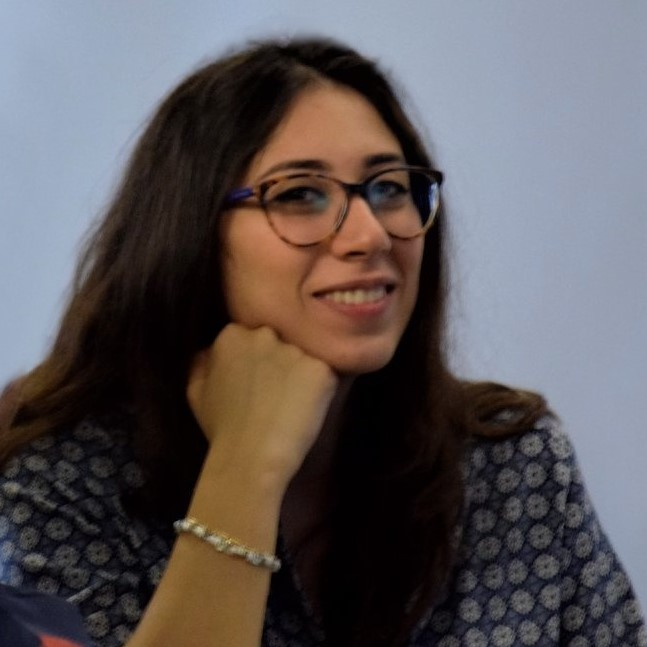
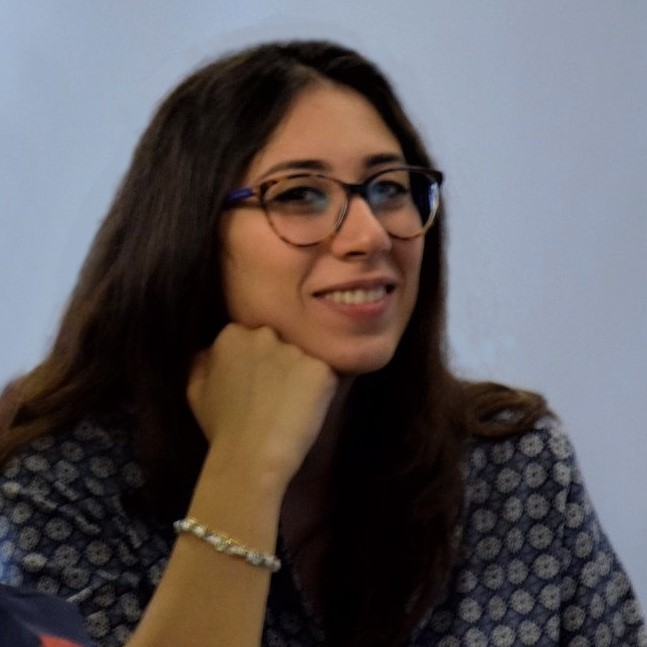
rewrote structure of members, as the lab growths not all members are phds, now postdocs, alumni and vistors have also their folders

diff --git a/_includes/members.html b/_includes/members.html
@@ -40,7 +40,7 @@
                 </div>
             </div>
             <div class="row">
-                <div class="col-md-4 col-sm-4 members-item">
+                <!-- <div class="col-md-4 col-sm-4 members-item">
                   <a href="https://wenxuanmou.github.io/personalPage/" class="members-link" data-toggle="modal">
                       <div class="members-hover">
                           <div class="members-hover-content">
@@ -53,37 +53,28 @@
                       <h4>Wenxuan Mou</h4>
                       <p class="text-muted"> US <a href="#projects">THRIVE++</a> project</a></p>
                   </div>
-                </div>
+                </div> -->
+
+            {% for member in include.postdocs %}
+            {% assign var = forloop.index0 | modulo:2 %}
                 <div class="col-md-4 col-sm-4 members-item">
-                    <a class="members-link" data-toggle="modal">
+                <!-- <div class="col-md-4 col-sm-6 members-item"> -->
+                    <a {% if member.website %}href={{member.website}}{% endif %} class="members-link" data-toggle="modal">
                         <div class="members-hover">
                             <div class="members-hover-content">
                                 <i class="fa fa-plus fa-3x"></i>
                             </div>
                         </div>
-                        <img src="img/members/GiLimPhoto.jpg" class="img-responsive" alt="">
+                        <img src="img/members/{% if member.picture %}{{member.picture}}{% else %}profile.png{% endif %}" class="img-responsive" alt="">
                     </a>
                     <div class="members-caption">
-                        <h4>Gi Hyun Lim</h4>
-                        <p class="text-muted">H2020 <a href="#projects">STRoNA</a> Fellowship</a></p>
+                        <h4>{{member.name}}</h4>
+                        {% if member.free-text %}<p class="text-muted">{{member.free-text}}</p>{% else %}<p><br><br></p>{% endif %}
                     </div>
                 </div>
-                <div class="col-md-4 col-sm-4 members-item">
-                  <a href="https://dhgarcia.github.io" class="members-link" data-toggle="modal">
-                      <div class="members-hover">
-                          <div class="members-hover-content">
-                              <i class="fa fa-plus fa-3x"></i>
-                          </div>
-                      </div>
-                      <img src="img/members/DanielHernandezGarciaPhoto.png" class="img-responsive" alt="">
-                  </a>
-                  <div class="members-caption">
-                      <h4>Daniel Hernández García</h4>
-                      <p class="text-muted">H2020 <a href="#projects">MoveCare</a> Project</a></p>
-                  </div>
-                </div>
-             </div>
+            {% endfor %}
 
+            </div>
 
 
 
@@ -97,7 +88,7 @@
 
             <div class="row">
 
-            {% for member in include.collection %}
+            {% for member in include.phds %}
             {% assign var = forloop.index0 | modulo:2 %}
                 <div class="col-md-4 col-sm-6 members-item">
                     <a {% if member.website %}href={{member.website}}{% endif %} class="members-link" data-toggle="modal">
@@ -119,16 +110,15 @@
 
 
 
-
             <div class="row">
                 <div class="col-lg-12 text-center">
-                    <h2 class="section-subheading text-muted">Visiting Scholars</h2>
+                    <h2 class="section-subheading text-muted">Visisting Scholars</h2>
                 </div>
             </div>
 
              <div class="row">
 
-                <div class="col-md-3 col-sm-3 members-item"></div>
+                <!-- <div class="col-md-3 col-sm-3 members-item"></div>
                 <div class="col-md-3 col-sm-3 members-item">
                     <a class="members-link" data-toggle="modal">
                         <div class="members-hover">
@@ -140,7 +130,7 @@
                     </a>
                     <div class="members-caption">
                         <h4>Debora Zanatto</h4>
-                        <p class="text-muted">Plymouth University</p>
+                        <p class="text-muted">University of Bristol</p>
                     </div>
                 </div>
 
@@ -158,10 +148,73 @@
                         <p class="text-muted">Universidad Carlos III de Madrid</p>
                     </div>
                 </div>
-<div class="col-md-3 col-sm-3 members-item"></div>
+
+
+                <div class="col-md-3 col-sm-3 members-item">
+                  <a href="https://dhgarcia.github.io" class="members-link" data-toggle="modal">
+                      <div class="members-hover">
+                          <div class="members-hover-content">
+                              <i class="fa fa-plus fa-3x"></i>
+                          </div>
+                      </div>
+                      <img src="img/members/DanielHernandezGarciaPhoto.png" class="img-responsive" alt="">
+                  </a>
+                  <div class="members-caption">
+                      <h4>Daniel Hernández García</h4>
+                      <p class="text-muted">Heriot-Watt University</p>
+                  </div>
+                </div> -->
+                {% for member in include.visitors %}
+                {% assign var = forloop.index0 | modulo:2 %}
+                    <div class="col-md-3 col-sm-3 members-item">
+                        <a {% if member.website %}href={{member.website}}{% endif %} class="members-link" data-toggle="modal">
+                            <div class="members-hover">
+                                <div class="members-hover-content">
+                                    <i class="fa fa-plus fa-3x"></i>
+                                </div>
+                            </div>
+                            <img src="img/members/{% if member.picture %}{{member.picture}}{% else %}profile.png{% endif %}" class="img-responsive" alt="">
+                        </a>
+                        <div class="members-caption">
+                            <h4>{{member.name}}</h4>
+                            {% if member.free-text %}<p class="text-muted">{{member.free-text}}</p>{% else %}<p><br><br></p>{% endif %}
+                        </div>
+                    </div>
+                {% endfor %}
+
+
 
             </div>
 
+
+            <div class="row">
+                <div class="col-lg-12 text-center">
+                    <h2 class="section-subheading text-muted">Alumni</h2>
+                </div>
+            </div>
+
+            <div class="row">
+                <!-- <div class="col-md-3 col-sm-3 members-item"></div> -->
+
+            {% for member in include.alumni %}
+            {% assign var = forloop.index0 | modulo:2 %}
+                <div class="col-md-3 col-sm-3 members-item">
+                    <a {% if member.website %}href={{member.website}}{% endif %} class="members-link" data-toggle="modal">
+                        <div class="members-hover">
+                            <div class="members-hover-content">
+                                <i class="fa fa-plus fa-3x"></i>
+                            </div>
+                        </div>
+                        <img src="img/members/{% if member.picture %}{{member.picture}}{% else %}profile.png{% endif %}" class="img-responsive" alt="">
+                    </a>
+                    <div class="members-caption">
+                        <h4>{{member.name}}</h4>
+                        {% if member.free-text %}<p class="text-muted">{{member.free-text}}</p>{% else %}<p><br><br></p>{% endif %}
+                    </div>
+                </div>
+            {% endfor %}
+
+            </div>
 
 
         </div>

diff --git a/_layouts/default.html b/_layouts/default.html
@@ -8,7 +8,7 @@
 
     {% include header.html %}
     {% include about.html %}
-    {% include members.html title='Members' collection=site.members%}
+    {% include members.html title='Members' phds=site.students postdocs=site.postdocs alumni=site.alumni visitors=site.visitors%}
     {% include robots.html %}
     {% include projects.html %}
     {% include contact.html %}

diff --git a/README.md b/README.md
@@ -47,7 +47,7 @@ This section is in fact in plain `.html`, the [/\_includes/about.html](/_include
 ## How to add/modify a Member
 This section is slightly more complex. To keep everything tidy, please place all used images in the [/img/members/](/img/members/) folder (**note**: images must currently be 720x720).
 
-1. We auto-magically parse `PhD Students` from the [/\_members/](/_members) folder. Insert or modify `.markdown` files as described in the [/\_members/README.md](/_members/README.md) file. Advanced: the parsing is achieved via the [jekyll collections](https://jekyllrb.com/docs/collections/) mechanism, implemented [here](https://github.com/corolab/corolab.github.io/blob/0a890309da44616f980fbd5f600e505c09014d54/_config.yml#L31-L35) and [here](https://github.com/corolab/corolab.github.io/blob/0a890309da44616f980fbd5f600e505c09014d54/_includes/members.html#L73-L89).
+1. We auto-magically parse the different type of `Members` from the [/\_members/](/_members) folder. Insert or modify `.markdown` files as described in the [/\_members/README.md](/_members/README.md) file. Advanced: the parsing is achieved via the [jekyll collections](https://jekyllrb.com/docs/collections/) mechanism, implemented [here](https://github.com/corolab/corolab.github.io/blob/0a890309da44616f980fbd5f600e505c09014d54/_config.yml#L39-L49) and [here](https://github.com/corolab/corolab.github.io/blob/0a890309da44616f980fbd5f600e505c09014d54/_includes/members.html#L42-L215).
 
 2. The rest of members may be edited manually in plain `.html`, the [/\_includes/members.html](/_includes/members.html) file.
 

diff --git a/_members/README.md b/_members/README.md
@@ -1,6 +1,9 @@
 # /\_members/
 
-This folder contains one file per member, with the following format:
+This folder contains subfolders for each of the members categories, postdocs, phds, visitors, etc.
+
+Each subfolder contains one file per member, with the following format (once someone leaves the corolab it can be move to the [/\_members/_alumni/](/_members/_alumni/) folder for former members.):
+
 ```
 ---
 type: member
@@ -14,5 +17,5 @@ Where:
 - `type`: Please leave its value `member` fixed.
 - `name`: Name of person.
 - `free-text` [optional]: Some free text.
-- `picture` [optional]: A file name with extension. The path [/img/members/](/img/members/) is already prepended during automatic file parsing, so please omit it.
+- `picture` : A file name with extension. The path [/img/members/](/img/members/) is already prepended during automatic file parsing, so please omit it. The default `picture` should be [/img/members/profile.png](/img/members/profile.png) if not image of the person is added.
 - `website` [optional]: A website URL.
